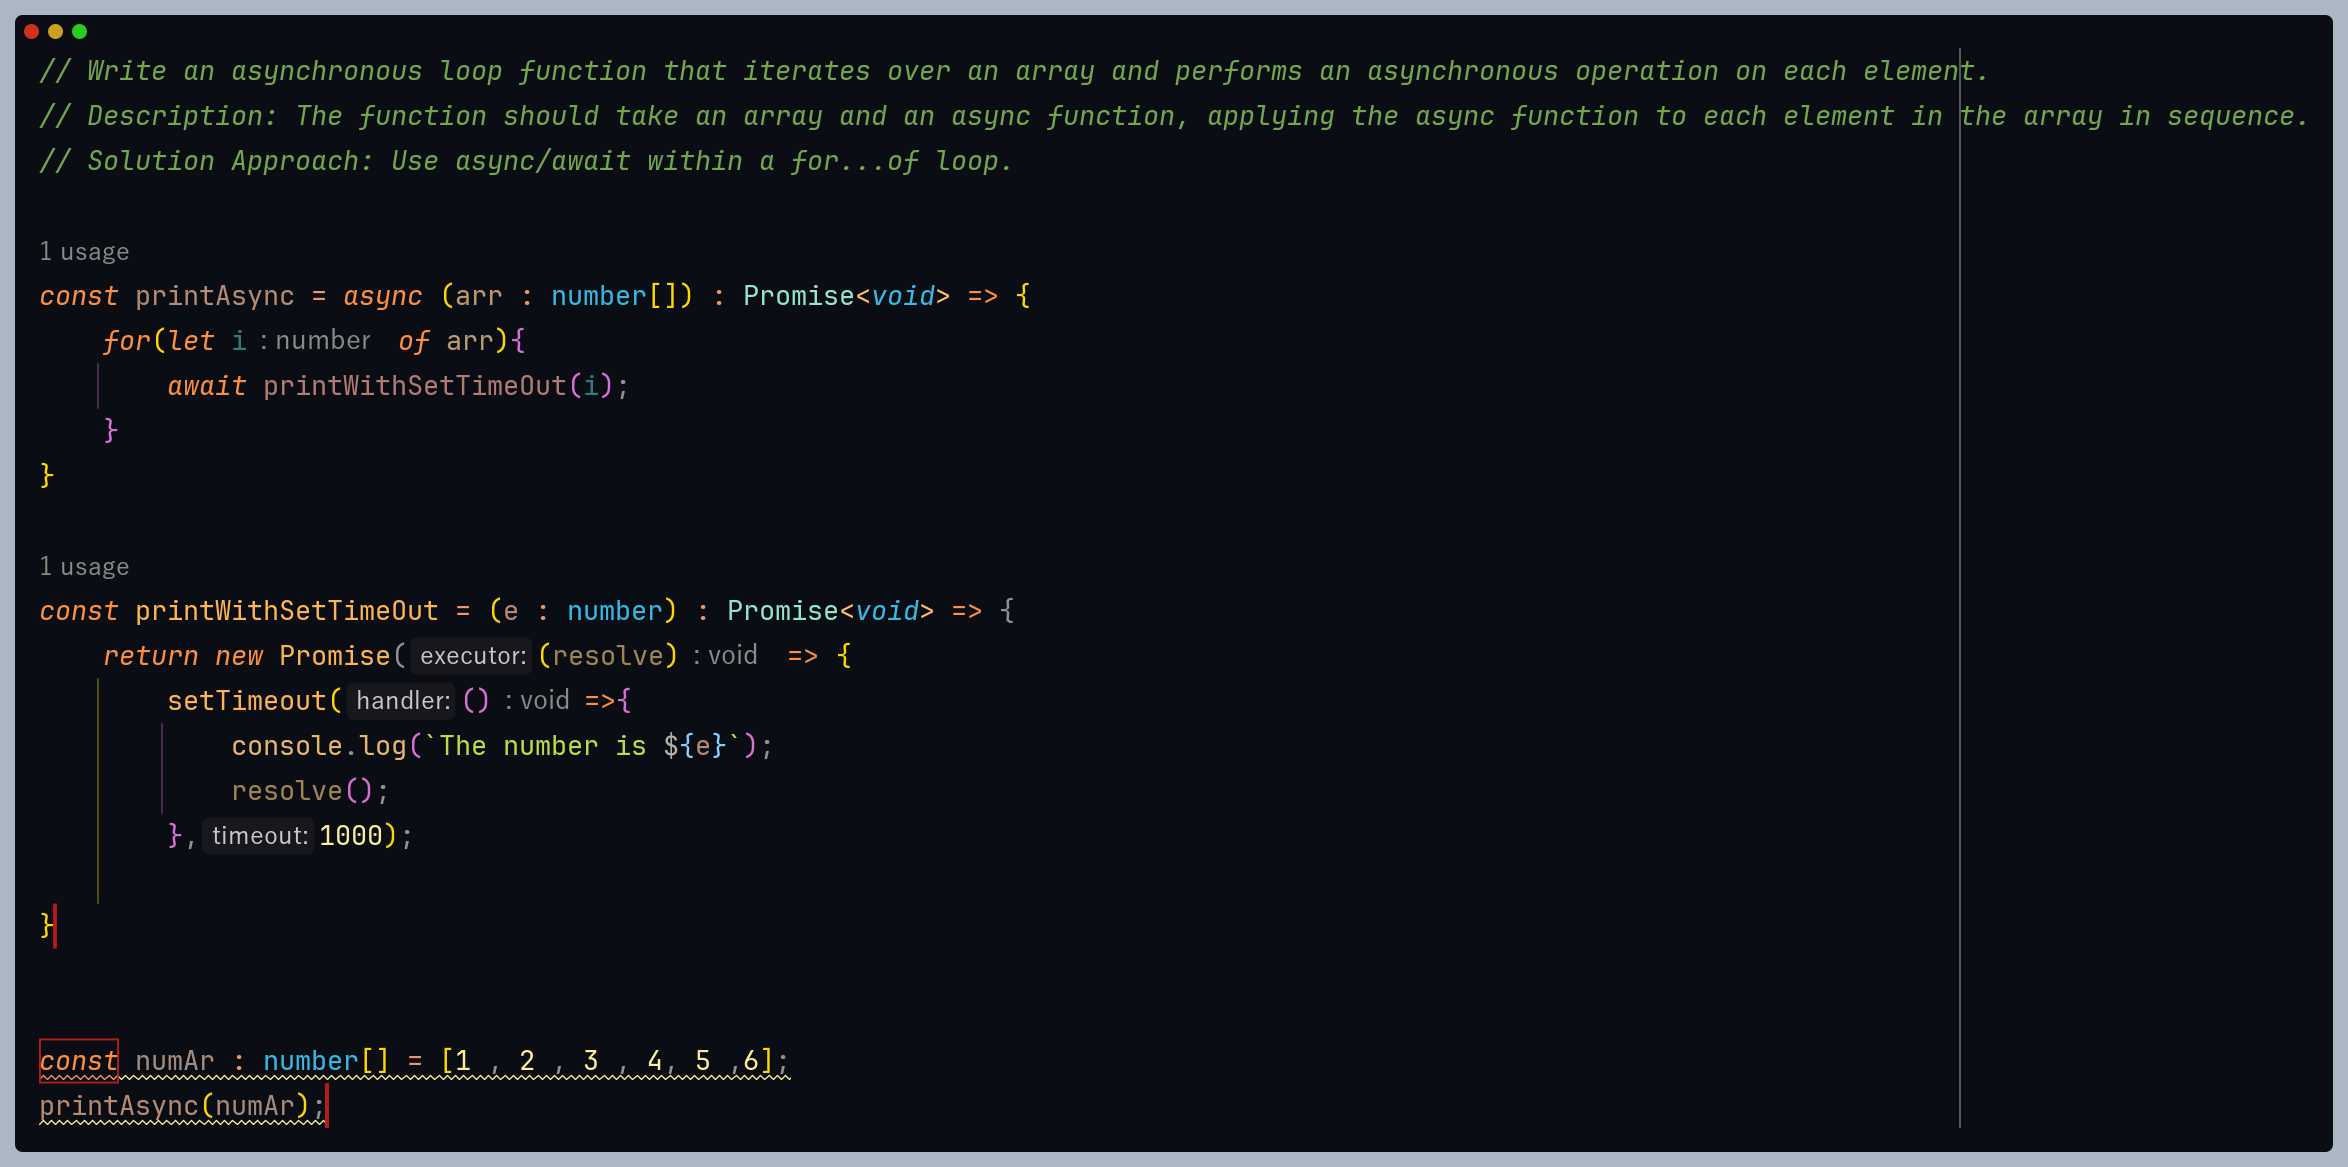
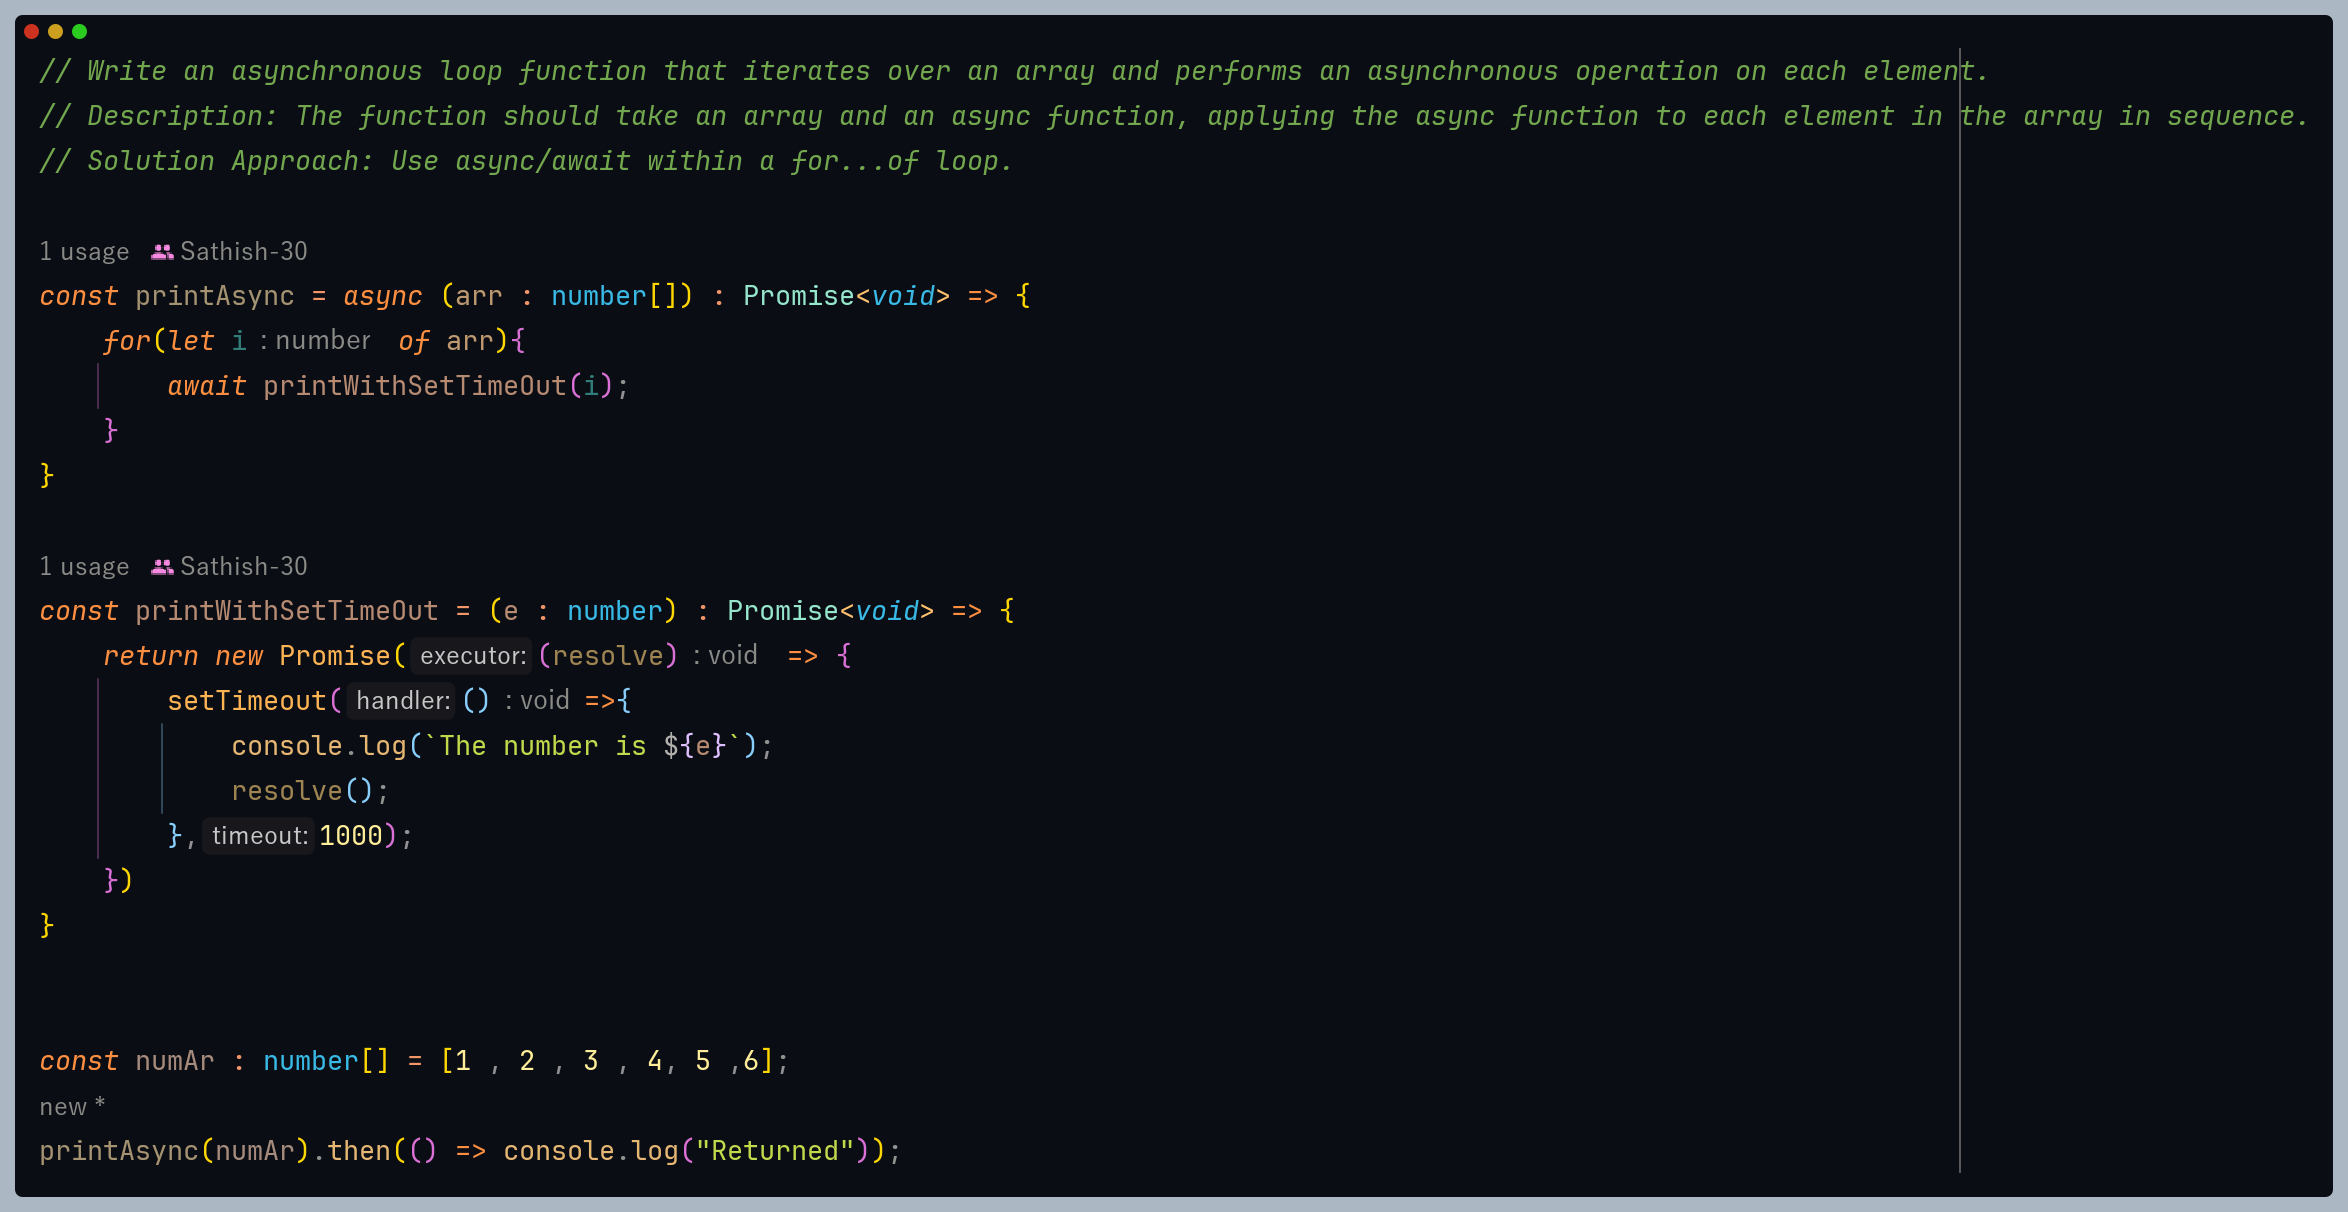
Added the work of Day23 and learned promises

diff --git a/streak/Ts/dist/coffeeShop.js b/streak/Ts/dist/coffeeShop.js
@@ -1,0 +1,45 @@
+"use strict";
+var __awaiter = (this && this.__awaiter) || function (thisArg, _arguments, P, generator) {
+    function adopt(value) { return value instanceof P ? value : new P(function (resolve) { resolve(value); }); }
+    return new (P || (P = Promise))(function (resolve, reject) {
+        function fulfilled(value) { try { step(generator.next(value)); } catch (e) { reject(e); } }
+        function rejected(value) { try { step(generator["throw"](value)); } catch (e) { reject(e); } }
+        function step(result) { result.done ? resolve(result.value) : adopt(result.value).then(fulfilled, rejected); }
+        step((generator = generator.apply(thisArg, _arguments || [])).next());
+    });
+};
+const placeOrder = (drink) => {
+    return new Promise((resolve, reject) => {
+        if (drink === 'coffee') {
+            resolve("Order for Coffee received");
+        }
+        else {
+            reject("Other orders rejected");
+        }
+    });
+};
+const processOrder = (order) => {
+    return new Promise((resolve) => {
+        console.log("Order is being processed");
+        resolve(order + "is Served");
+    });
+};
+placeOrder("coffee").catch(err => console.log(err));
+// chaining of promises
+// placeOrder("coffee").then((res: string) : Promise<string> => {
+//     console.log(res);
+//     return processOrder(res);
+//     }).catch((err) => console.log(err)).then((processedOrder) => console.log(processedOrder));
+const serveOrder = (order) => __awaiter(void 0, void 0, void 0, function* () {
+    try {
+        const orderPlaced = yield placeOrder(order);
+        console.log(orderPlaced);
+        const processedOrder = yield processOrder(orderPlaced);
+        console.log(processedOrder);
+        c;
+    }
+    catch (err) {
+        console.log(err);
+    }
+});
+serveOrder("tea");

diff --git a/streak/Ts/src/coffeeShop.ts b/streak/Ts/src/coffeeShop.ts
@@ -1,0 +1,38 @@
+const placeOrder = (drink: string) : Promise<string> => {
+    return new Promise((resolve, reject) => {
+        if(drink === 'coffee'){
+            resolve("Order for Coffee received");
+        }else{
+            reject("Other orders rejected" );
+        }
+    });
+};
+
+
+
+const processOrder = (order : string) : Promise<string> => {
+    return new Promise((resolve) => {
+        console.log("Order is being processed");
+        resolve(order + "is Served");
+    });
+}
+
+placeOrder("coffee").catch(err => console.log(err));
+// chaining of promises
+// placeOrder("coffee").then((res: string) : Promise<string> => {
+//     console.log(res);
+//     return processOrder(res);
+//     }).catch((err) => console.log(err)).then((processedOrder) => console.log(processedOrder));
+
+const serveOrder = async (order: string): Promise<void> => {
+    try {
+        const orderPlaced: string = await placeOrder(order);
+        console.log(orderPlaced);
+        const processedOrder = await processOrder(orderPlaced);
+        console.log(processedOrder);c
+    } catch (err) {
+        console.log(err)
+    }
+}
+
+serveOrder("tea");

diff --git a/streak/Ts/src/promise.ts b/streak/Ts/src/promise.ts
@@ -1,7 +1,7 @@
 // How to produce a promise
 
-let promise : Promise<string> = new Promise((resolve , reject)  => {
-    const ab : number = 4;
+let promise : Promise<string> = new Promise((resolve , reject):void  => {
+    const ab : number = 5;
     const ac : number = 5;
     setTimeout(() => {
         if(ab === ac){
@@ -12,6 +12,7 @@ let promise : Promise<string> = new Promise((resolve , reject)  => {
     } , 1000);
 });
 
-promise.then((result : string) => {
-    console.log(result);
-}).catch((err) => console.log(`An error has been occurred`))
+// Fulfilled stage
+promise.then((res : string) : void => {
+    console.log("fulfilled stage")
+}).catch((err) => console.log("rejected stage"));

diff --git a/streak/Ts/dist/promise.js b/streak/Ts/dist/promise.js
@@ -1,7 +1,7 @@
 "use strict";
 // How to produce a promise
 let promise = new Promise((resolve, reject) => {
-    const ab = 4;
+    const ab = 5;
     const ac = 5;
     setTimeout(() => {
         if (ab === ac) {
@@ -12,6 +12,7 @@ let promise = new Promise((resolve, reject) => {
         }
     }, 1000);
 });
-promise.then((result) => {
-    console.log(result);
-}).catch((err) => console.log(`An error has been occurred`));
+// Fulfilled stage
+promise.then((res) => {
+    console.log("fulfilled stage");
+}).catch((err) => console.log("rejected stage"));

diff --git a/streak/Ts/src/day23.ts b/streak/Ts/src/day23.ts
@@ -1,0 +1,16 @@
+// Problem : Closure Challenge
+// Description:
+// Write a function counter that returns a new function on each invocation. The returned function, when called, should increment the counter value and return it.
+// Solution Approach:
+// Utilize closure to maintain the state of the counter.
+const counter = () : void => {
+    const increment = () : void => {c++};
+    increment();
+}
+
+let c : number = 0;
+counter()
+counter()
+counter()
+counter()
+console.log(c)

diff --git a/streak/Ts/dist/day23.js b/streak/Ts/dist/day23.js
@@ -1,0 +1,16 @@
+"use strict";
+// Problem : Closure Challenge
+// Description:
+// Write a function counter that returns a new function on each invocation. The returned function, when called, should increment the counter value and return it.
+// Solution Approach:
+// Utilize closure to maintain the state of the counter.
+const counter = () => {
+    const increment = () => { c++; };
+    increment();
+};
+let c = 0;
+counter();
+counter();
+counter();
+counter();
+console.log(c);

diff --git a/streak/Ts/src/day24.ts b/streak/Ts/src/day24.ts
@@ -1,0 +1,19 @@
+const debounce = (func: () => void, time: number) : () => void => {
+    let timer : number;
+    return () => {
+        clearTimeout(timer);
+        timer = setTimeout(()=> {
+            func()
+        }, time);
+    }
+}
+
+const example = () : void => {
+    console.log("Function called");
+}
+
+const debouncedFunction = debounce(example , 1000);
+
+debouncedFunction();
+debouncedFunction();
+debouncedFunction();

diff --git a/streak/Ts/dist/day24.js b/streak/Ts/dist/day24.js
@@ -1,0 +1,17 @@
+"use strict";
+const debounce = (func, time) => {
+    let timer;
+    return () => {
+        clearTimeout(timer);
+        timer = setTimeout(() => {
+            func();
+        }, time);
+    };
+};
+const example = () => {
+    console.log("Function called");
+};
+const debouncedFunction = debounce(example, 1000);
+debouncedFunction();
+debouncedFunction();
+debouncedFunction();

diff --git a/streak/Ts/dist/day21.js b/streak/Ts/dist/day21.js
@@ -25,4 +25,4 @@ const printWithSetTimeOut = (e) => {
     });
 };
 const numAr = [1, 2, 3, 4, 5, 6];
-printAsync(numAr).then(r => console.log(r));
+printAsync(numAr).then(() => console.log("Returned"));
